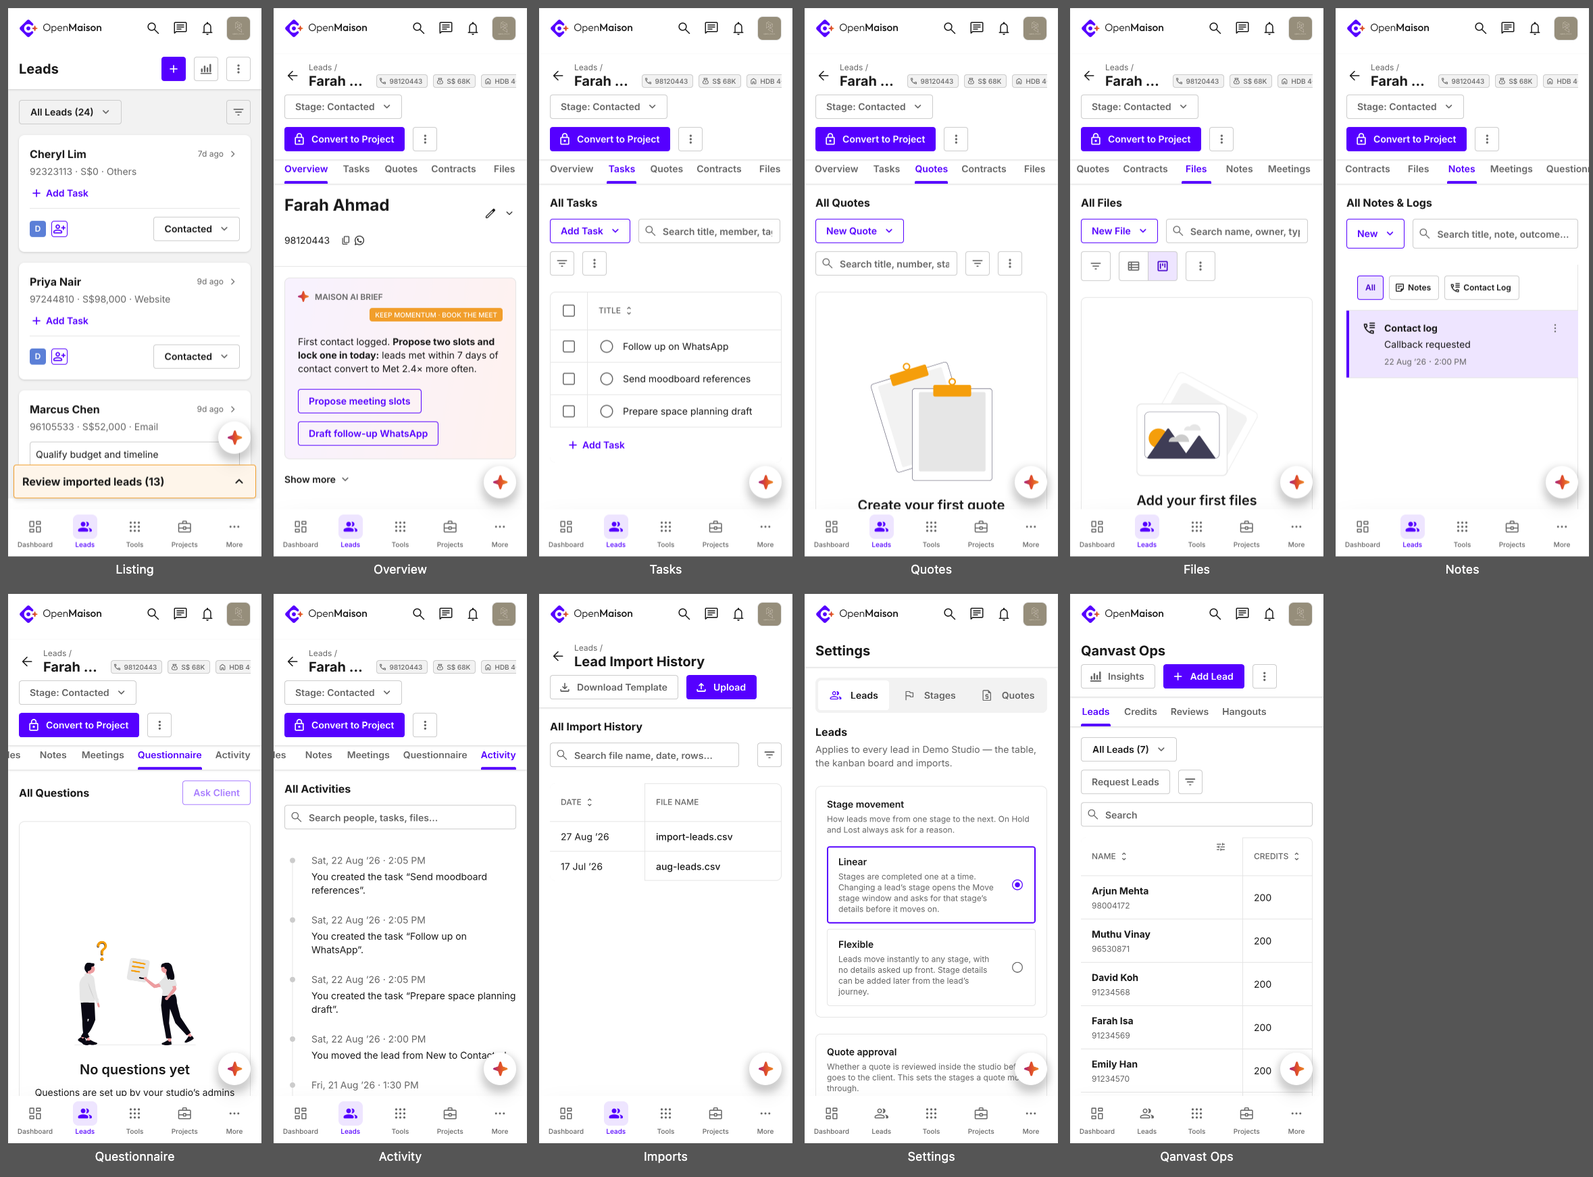
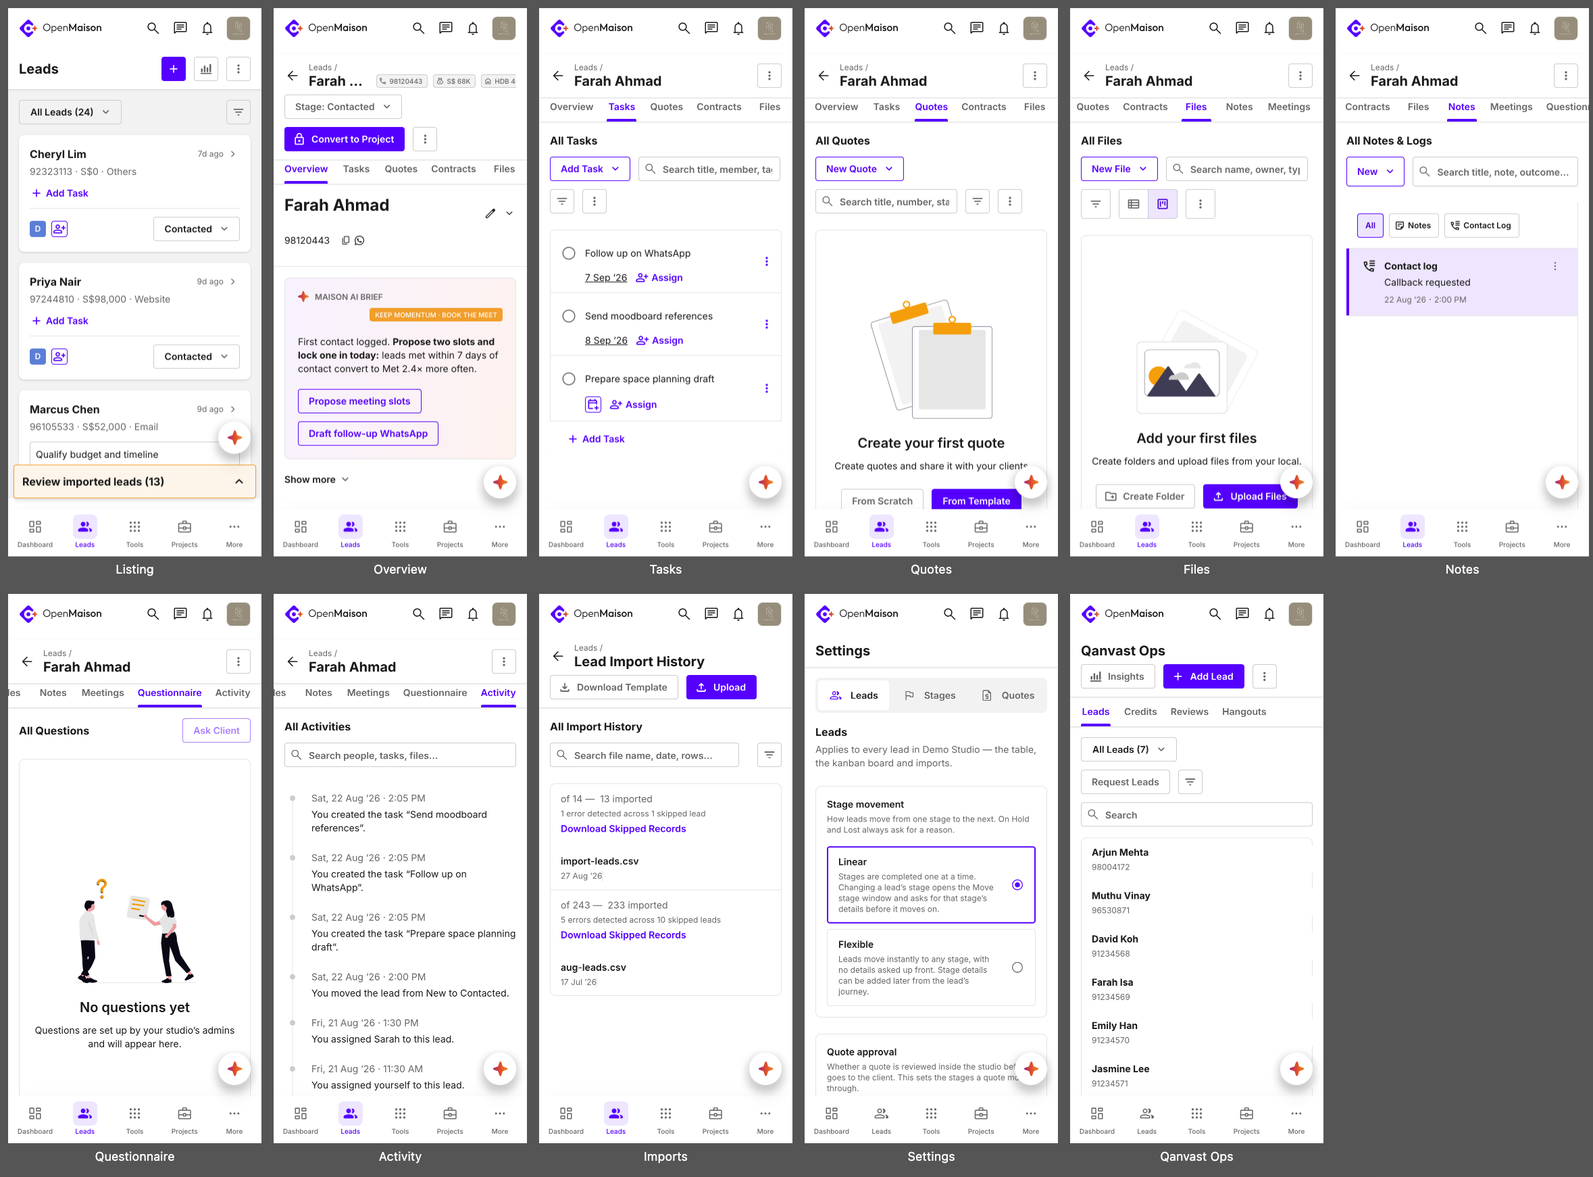
Mobile: compact Lead Details header, and three tables become lists
REG-345 The L2 header spent four rows before any content: breadcrumb and name,
        chips running off-screen, the stage pill with Convert to Project, then
        the tabs. Every tab but Overview now uses a compact header — no chips,
        no stage or Convert, kebab on the title row — which is 108px of chrome
        instead of 156, so each tab gains 48px. Overview keeps the identity
        block; desktop is unchanged.

REG-346 Tasks, Lead Import History and Qanvast Ops each held a desktop column
        floor inside a 375 card, so rows scrolled sideways and read as
        fragments. Each becomes a list by stylesheet only. Tasks leads with the
        status ring and title, puts the due date and member beneath, and pins a
        permanent kebab — it was hover-only, which a finger can never raise.
        Imports leads with the file name; its column widths moved from an inline
        flex, which CSS cannot override, to a custom property. Qanvast Ops
        collapses to one column per lead. Desktop keeps every table as mocked.

Verified at 375 and 1440 across twelve pages: no horizontal overflow, no
clipped text, desktop untouched.

diff --git a/app/leads/imports/imports-view.tsx b/app/leads/imports/imports-view.tsx
@@ -1,6 +1,6 @@
 'use client'
 
-import { useMemo, useRef, useState } from 'react'
+import { useMemo, useRef, useState, type CSSProperties } from 'react'
 import { useRouter } from 'next/navigation'
 import { Button, SearchBar } from '@/components/ds'
 import { PageReveal } from '@/components/shell/page-reveal'
@@ -147,7 +147,7 @@ function View({ imports }: { imports: ImportBatch[] }) {
                 <div className={styles.table} role="table" aria-label="Import history">
                   <div className={styles.headRow} role="row">
                     {COLS.map((c) => (
-                      <div key={c.key} className={styles.hCell} style={{ flex: `${c.width} 0 ${c.width}px` }} role="columnheader">
+                      <div key={c.key} className={styles.hCell} style={{ '--col': c.width } as CSSProperties} role="columnheader">
                         {'sortable' in c && c.sortable ? (
                           <button type="button" className={styles.hSort} data-sorted={dateDir !== 'none' || undefined}
                                   onClick={() => setDateDir((d) => (d === 'none' ? 'desc' : d === 'desc' ? 'asc' : 'none'))}>
@@ -164,12 +164,12 @@ function View({ imports }: { imports: ImportBatch[] }) {
                        so a screen reader saw rows of generic children and dropped out of table mode — no column
                        announcements, no cell navigation. Additive only; nothing here is styled by role. */
                     <div key={b.id} className={styles.row} role="row">
-                      <div className={styles.cell} style={{ flex: '141 0 141px' }} role="cell"><span>{displayDate(b.createdAt)}</span></div>
-                      <div className={`${styles.cell} ${styles.fileName}`} style={{ flex: '285 0 285px' }} role="cell"><span>{b.fileName}</span></div>
-                      <div className={styles.cell} style={{ flex: '118 0 118px' }} role="cell"><span>{b.totalRows}</span></div>
-                      <div className={styles.cell} style={{ flex: '142 0 142px' }} role="cell"><span>{b.importedRows}</span></div>
-                      <div className={styles.cell} style={{ flex: '396 0 396px' }} role="cell"><span>{b.errorNote ?? 'No errors'}</span></div>
-                      <div className={styles.cell} style={{ flex: '234 0 234px' }} role="cell">
+                      <div className={styles.cell} style={{ '--col': 141 } as CSSProperties} role="cell"><span>{displayDate(b.createdAt)}</span></div>
+                      <div className={`${styles.cell} ${styles.fileName}`} style={{ '--col': 285 } as CSSProperties} role="cell"><span>{b.fileName}</span></div>
+                      <div className={styles.cell} style={{ '--col': 118 } as CSSProperties} role="cell"><span>{b.totalRows}</span></div>
+                      <div className={styles.cell} style={{ '--col': 142 } as CSSProperties} role="cell"><span>{b.importedRows}</span></div>
+                      <div className={styles.cell} style={{ '--col': 396 } as CSSProperties} role="cell"><span>{b.errorNote ?? 'No errors'}</span></div>
+                      <div className={styles.cell} style={{ '--col': 234 } as CSSProperties} role="cell">
                         {b.skippedRows > 0 ? (
                           <a className={styles.link} href={`/leads/imports/${b.id}/skipped`} download>Download Skipped Records</a>
                         ) : <span style={{ color: 'var(--om-color-on-surface-secondary)' }}>—</span>}

diff --git a/components/leads/tasks/tasks-table.module.css b/components/leads/tasks/tasks-table.module.css
@@ -327,3 +327,31 @@ button.doneFilled[data-variant='primary']:hover {
   .head::after, .row::after { content: ''; flex: 0 0 150px; }
   .head, .row { min-width: calc(1244px + 150px); }   /* the band is part of the floor, so the title never absorbs it */
 }
+
+/* ── ≤767: the table is a list (REG-346) ──────────────────────────────────────────────────────────────
+   Seven columns inside 375 left the title a few characters and pushed Creator, Status and Tags off the
+   screen. The row becomes the ideated list instead: the status ring and the title lead, the due date sits
+   under the title, and the member and the row kebab close it. Creator, status text, tags and the select
+   column are the desktop table's — the kebab still reaches every one of their actions. The hover-only row
+   actions become permanent, because a finger has no hover and could never raise them. */
+@media (max-width: 767px) {
+  .head { display: none; }
+  /* The separator belongs to the row now: on the desktop table every cell draws it, which turned each wrapped
+     row into two ruled bands. */
+  /* The list wraps to the screen, so the desktop column floor that made the card scroll sideways is dropped. */
+  .head, .row { min-width: 0; }
+  .row { height: auto; min-height: 64px; flex-wrap: wrap; align-items: center; border-top: var(--om-border-1) solid var(--om-color-surface-variant); }
+  .cell { padding: 0; border-top: 0; }
+  .colSel, .colCreator, .colStatus, .colTags { display: none; }
+  /* Line 1: the ring, the title and whoever it is assigned to. Line 2: the due date, indented past the ring.
+     The kebab is pinned right and the row reserves its width, so nothing runs under it. */
+  .row { padding-right: 44px; }
+  .colTitle { flex: 1 1 100%; order: 1; border-right: 0; padding: var(--om-spacing-3) 0 var(--om-spacing-1) var(--om-spacing-4); }
+  .cell.colDue { flex: 0 0 auto; order: 2; padding: 0 0 var(--om-spacing-3) 52px; }
+  .cell.colMember { flex: 0 0 auto; order: 3; padding: 0 0 var(--om-spacing-3) var(--om-spacing-3); }
+  .actions { opacity: 1; pointer-events: auto; top: 50%; right: var(--om-spacing-1); transform: translateY(-50%); }
+  .actions > .float:first-child { display: none; }   /* Edit is in the kebab's menu; the row shows one control (direct child only — the kebab has a .float of its own) */
+  .float { box-shadow: none; background: transparent; }
+  /* A list row's kebab is a bare glyph, not an outlined button. */
+  .actions button[class*='icon-button'] { border-color: transparent; }
+}

diff --git a/app/leads/[id]/overview.tsx b/app/leads/[id]/overview.tsx
@@ -210,6 +210,7 @@ export function LeadOverview({ detail, tab, body, wide = false, origin }: { deta
       <div className={styles.body}>
         <PageHeaderL2
           scrollShadow={false}   /* the sticky tab strip below carries the level-1 (REG-331) */
+          compact={tab !== ''}   /* (REG-345) ≤767 only Overview carries the chips and the stage / Convert pair */
         backHref={origin === 'qanvast' ? '/qanvast-ops' : '/leads'}
           crumb={origin === 'qanvast' ? 'Qanvast Ops / Leads' : 'Leads'}
           title={lead.name}
@@ -232,7 +233,7 @@ export function LeadOverview({ detail, tab, body, wide = false, origin }: { deta
           }
           actions={
             <>
-              <span className={styles.anchor} ref={stagePillRef}>
+              <span className={tab === '' ? styles.anchor : `${styles.anchor} ${styles.leadActionOnly}`} ref={stagePillRef}>
                 <Button variant="secondary" appearance="outlined" iconEnd={<Icon name="keyboard_arrow_down" size={20} />} aria-haspopup="menu" aria-expanded={!!stageMenu}
                         onPress={() => { const el = stagePillRef.current; if (!el) return; setStageMenu((s) => (s ? null : { el, ...stagePos(el) })) }}>
                   Stage: {lead.stage}
@@ -240,7 +241,7 @@ export function LeadOverview({ detail, tab, body, wide = false, origin }: { deta
               </span>
               {/* The lock glyph is the locked-until-Won cue (REG-168); a Won lead's button is actionable and drops it (REG-204). */}
               <Tooltip label={lead.stage === 'Won' ? 'Convert to Project' : 'Available once the lead is Won'}>
-                <span className={styles.anchor}>
+                <span className={tab === '' ? styles.anchor : `${styles.anchor} ${styles.leadActionOnly}`}>
                   <Button variant="primary" iconStart={lead.stage === 'Won' ? undefined : <Icon name="lock" size={20} />} onPress={() => (lead.stage === 'Won' ? comingSoon() : snackbar({ message: 'Win the lead first — Won creates the project' }))}>
                     Convert to Project
                   </Button>

diff --git a/app/leads/imports/imports.module.css b/app/leads/imports/imports.module.css
@@ -52,6 +52,7 @@
 .headRow, .row { display: flex; align-items: stretch; }
 .headRow { height: 56px; }
 .row { height: 44px; border-top: var(--om-border-1) solid var(--om-color-surface-variant); }
+.hCell, .cell { flex: var(--col) 0 calc(var(--col) * 1px); }
 .hCell, .cell {
   flex-shrink: 0; display: flex; align-items: center; gap: var(--om-spacing-1);
   padding: 0 var(--om-spacing-6) 0 var(--om-spacing-4);
@@ -156,3 +157,21 @@
    that file's hand-rolled search retired (REG-276). 280 is the width every list toolbar uses. */
 .searchWrap { display: inline-flex; flex: 1; min-width: 0; }
 .search { width: 280px; max-width: 100%; }
+
+/* ── ≤767: the history is a list (REG-346) ────────────────────────────────────────────────────────────
+   Six columns need 1316px; on a phone the card scrolled sideways and every row read as a fragment. The
+   file name leads, the date and the counts sit under it, and the skipped-records link closes the row. */
+@media (max-width: 767px) {
+  .table { min-width: 0; }
+  .headRow { display: none; }
+  .row { height: auto; flex-wrap: wrap; row-gap: var(--om-spacing-1); padding: var(--om-spacing-3) var(--om-spacing-4); }
+  .cell { flex: 0 0 auto; padding: 0; }
+  .cell:nth-child(2) { flex: 1 1 100%; font: var(--om-type-subheading-m); order: 1; }   /* file name leads */
+  .cell:nth-child(1) { color: var(--om-color-on-surface-secondary); font: var(--om-type-body-s); order: 2; }
+  .cell:nth-child(3), .cell:nth-child(4) { color: var(--om-color-on-surface-secondary); }
+  .cell:nth-child(3)::before { content: 'of '; }
+  .cell:nth-child(4)::before { content: ' — '; white-space: pre; }
+  .cell:nth-child(4)::after { content: ' imported'; }
+  .cell:nth-child(5) { flex: 1 1 100%; color: var(--om-color-on-surface-secondary); font: var(--om-type-body-s); }
+  .cell:nth-child(6) { flex: 1 1 100%; }
+}

diff --git a/components/shell/page-header-l2.tsx b/components/shell/page-header-l2.tsx
@@ -14,12 +14,16 @@ import { useWindowScrolled } from './use-window-scrolled'
  */
 export function PageHeaderL2({
   scrollShadow = true,
+  compact = false,
   backHref,
   crumb,
   title,
   chips,
   actions,
 }: {
+  /** (REG-345) ≤767 a tab other than Overview drops the chips: the identity block belongs to the tab that shows the lead,
+   *  and four rows of chrome left barely a screen for the tab's own content. Desktop always shows them. */
+  compact?: boolean
   /** (REG-331) Level-1 while the page is scrolled under the header. Off where a sticky tab strip follows it — the strip carries the mock's own level-1 (858:24784). */
   scrollShadow?: boolean
   backHref: string
@@ -32,7 +36,7 @@ export function PageHeaderL2({
 }) {
   const scrolled = useWindowScrolled()
   return (
-    <header className={styles.header} data-scrolled={(scrollShadow && scrolled) || undefined}>
+    <header className={styles.header} data-scrolled={(scrollShadow && scrolled) || undefined} data-compact={compact || undefined}>
       <Tooltip label={`Back to ${crumb}`}>
         <Link href={backHref} className={styles.back} aria-label={`Back to ${crumb}`}>
           <Icon name="arrow_back" size={24} weight={300} />

diff --git a/components/shell/page-header-l2.module.css b/components/shell/page-header-l2.module.css
@@ -71,11 +71,16 @@
   .header::after { border-radius: 0; box-shadow: var(--om-elevation-level-1); }
   .header::before { top: 0; }
   .chips { flex-basis: 100%; order: 4; justify-content: flex-start; }
+  /* (REG-345) Only the tab that shows the lead carries its identity chips; the rest give the room to their own content. */
+  .header[data-compact] .chips { display: none; }
   /* The action cluster (stage pill + primary + kebab ≈ 374px) is wider than a 390 screen's content box, and
      only .header was wrapping — so the kebab clipped. (REG-306) The cluster takes its own full line under the
      title, left-aligned, and wraps within it, so nothing is cut at 320 either (the responsive audit found the
      primary sliced at 320 and the kebab at 360). */
   .actions { flex: 1 1 100%; flex-wrap: wrap; justify-content: flex-start; }
+  /* (REG-345) A compact header's cluster is the kebab alone — 36px, which fits beside the name, so it keeps
+     the title's row instead of taking one of its own. */
+  .header[data-compact] .actions { flex: 0 0 auto; justify-content: flex-end; }
 }
 
 /* Touch ergonomics (REG-273): the back arrow is a 24px glyph and the only way out of a detail screen on a

diff --git a/components/qanvast/qanvast-leads.module.css b/components/qanvast/qanvast-leads.module.css
@@ -223,3 +223,13 @@
   .search button { position: relative; }
   .search button::after { content: ''; position: absolute; inset: -12px; }
 }
+
+/* ── ≤767: the board is a list (REG-346) ──────────────────────────────────────────────────────────────
+   The grid's tracks are a desktop table's; on a phone each lead becomes a block — name and phone, then
+   its columns underneath as label-less values, with the row actions always reachable (no hover). */
+@media (max-width: 767px) {
+  .head { display: none; }
+  .row { grid-template-columns: 1fr; grid-column: 1 / -1; padding: var(--om-spacing-3) var(--om-spacing-4); row-gap: var(--om-spacing-1); }
+  .cell { padding: 0; border: 0; }
+  .actions { opacity: 1; pointer-events: auto; }
+}

diff --git a/app/leads/[id]/overview.module.css b/app/leads/[id]/overview.module.css
@@ -50,6 +50,9 @@
 
 /* Stage pill + kebab live in the header's actions slot; menus anchor to these wrappers. */
 .anchor { position: relative; display: inline-flex; }
+/* (REG-345) The stage pill and Convert to Project belong to the lead, so ≤767 they stay on Overview and the other
+   tabs give the row back to their own content — the header there is the back arrow, the name and the kebab. */
+@media (max-width: 767px) { .leadActionOnly { display: none; } }
 
 /* ── Responsive (REG-269) ──────────────────────────────────────────────────────────────────────────────────
    Tablet and down: the card grid drops to one column. The two stacks keep their DOM order — MY WORK / QUOTES /

diff --git a/design-source/REGISTER.md b/design-source/REGISTER.md
@@ -346,3 +346,5 @@ own patterns (build plan §0P). Reviewed at each milestone demo.
 | REG-342 | Lead Details | **The info column's expanded blocks show their glyphs** (user 2026-09-04: "there are icons when this panel is collapsed but not there in expanded view"). Collaborators, Lead info, Property info and Other info carry the same 20px Light glyph their REG-304 strip tile uses (people_alt · info · home · sticky_note_2), before the title in the block head. The Contact block has no heading, so nothing to carry. The mock's expanded column (858:24783) draws no glyphs — user-directed. | user-directed |
 | REG-343 | Cross | **The demo data now says what the screens show** (user 2026-09-04: "I checked a lead named Farah Ahmad — the stage is Contacted, two members are assigned, but in the activity there is nothing … when we develop it should be correctly built without any mock data as is … this will be a demo prototype to show it to studios"). The prototype derives every card, duration and Activity line from the lead's own records (REG-191), but the seeds wrote leads straight into a stage, so 14 live leads past New had NO stage log at all: the Lead stages card showed "--" for every span, the Notes tab had no contact log to surface, and Activity showed only "Lead created". A read-only audit of all 36 leads across seven dimensions (stage trail, members, tasks, quotes/contracts, files/notes, questionnaire/returns/imports, listing fields) found 56 inconsistencies; 51 survived an adversarial verify. `scripts/repair-demo-data.ts` (`pnpm db:repair`) writes the records a real user action would have left, idempotently — deterministic ids from a hash of lead + kind, every timestamp derived from the lead's own creation: the stage chain each lead's journey implies (a day to first contact, three to the meeting, four to the quote, five to the close, compressed when the lead moved faster) carrying the full WizardData payload the wizard writes; `assigned_at` on all 32 assignments; a quote for every Quote Sent lead and a signed quote + contract for every Won lead, approved before the hop that needed them; the Lost move, task and outreach date behind every Qanvast return (a rejected return hands the lead back to the stage it was parked at); an owner for a lead past New that had none; contact logs for the quick moves and for payloads whose picker defaults predated the lead; records shifted after the lead they belong to; completion stamps on done tasks; open due dates rebased around the run day; the skipped rows an import claims. Test junk is purged (4 trashed "test" leads, 10 keyboard-mash tasks, 2 empty draft quotes). Fourteen verification queries run after the write and the script exits non-zero if any finds a row. Run it after any seeding, then `pnpm db:baseline`. | bug fix |
 | REG-344 | Cross | **Mobile is the mock again, to the pixel** (user 2026-09-04: "I wanted that standard pixel perfect responsive build" … "the header and bottom nav … cards, page headers, filters, fab are correct in the figma mock" — 1082:23305). Two rules had been quietly reshaping every mobile screen. (1) **The touch floor grew the drawn control, not the target.** REG-273 raised small controls to a 44px BOX (`min-block-size`/`min-inline-size`, or width/height plus a negative margin); the border and fill sit on that box, so the mock's 36px header buttons, the filter and the "All Leads" pill all rendered 44 — 4px left of where the mock puts them and 8px taller — and every card row inflated with them. The drawn control now keeps the mock's size and an invisible `::after` overlay carries the 44 target (`max(100%, 44px)`, centred), in `app/globals.css` for the DS families and `components/om/icon-button.module.css` for the om button, so touch changes nothing about layout. Verified: a press 3px outside a 36px button still reaches it. (2) **REG-314 is reversed** — ≤767 read body/m at 16/24 over the mock's 14, from the responsive brief's "minimum readable body text"; the owner has since made the mock the target, and 16 made every text row 4px taller so no card could overlay it. The token keeps one value at every width; iOS input zoom is still handled on the fields themselves (REG-306). (3) The lead card's name row and info line are now ONE block 4px apart — the mock's "CellDataGroup" (1082:25586) — instead of two children of the card's 12px rhythm. **Result at 375**: header buttons 36 at x227/275/323, filter 36 at x323, pill 36 at y136, card 173 tall with its group at 48, rule at 108 and foot at 121 — every value the mock's. Desktop is untouched (the touch rules are `hover: none`, the type change was mobile-only): a 12-page sweep at 1440 and 375 shows no horizontal overflow and no clipped text on either. \| user-directed \|
+| REG-345 | Lead Details | **Only Overview carries the lead's identity at ≤767** (user 2026-09-04, ideation 1144:2020 frames 2a / 2b). The L2 header spent four rows before any content: breadcrumb and name, the chips (which ran off-screen), the stage pill with Convert to Project, then the tabs — on a 812-tall phone that left barely a screen for the tab itself. A `compact` header (every tab but Overview) drops the chips and the stage / Convert pair and keeps its cluster — the kebab alone — on the title row: 108px of chrome instead of 156, so every tab gains 48px of content. Overview keeps all of it, and desktop is unchanged at every width. \| user-directed \|
+| REG-346 | Cross | **Three desktop tables become lists at ≤767** (user 2026-09-04, ideation frames 2b / 3c / 3j). Tasks, Lead Import History and Qanvast Ops › Leads each held their desktop column floor (1394, 1316 and a fixed grid) inside a 375 card, so every row scrolled sideways and read as a fragment. Each becomes the ideation's list, by stylesheet only — no second markup. **Tasks**: the status ring and the title lead, the due date and the member sit under them, the row kebab is pinned right and permanent (it was hover-only, which a finger can never raise), and Creator, Status, Tags and the select column stand down to the kebab's menu. **Imports**: the file name leads, then the date, "of N — M imported", the error note and the skipped-records link; the six column widths moved from an inline `flex` (which CSS cannot override) to a `--col` custom property. **Qanvast Ops**: the grid collapses to one column per lead and its row actions stop depending on hover. Desktop keeps every table exactly as mocked. \| user-directed \|
